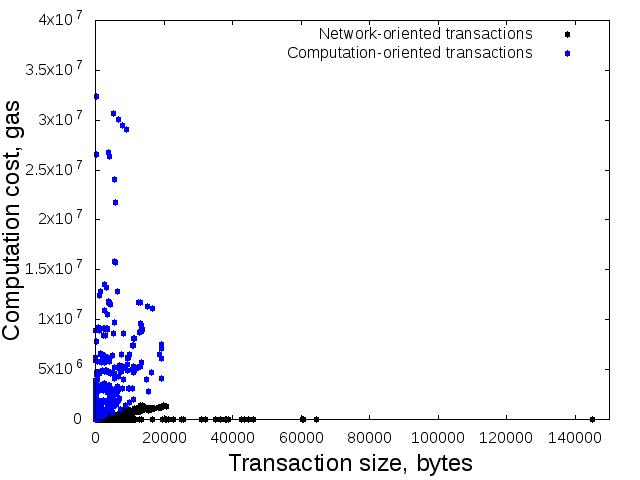
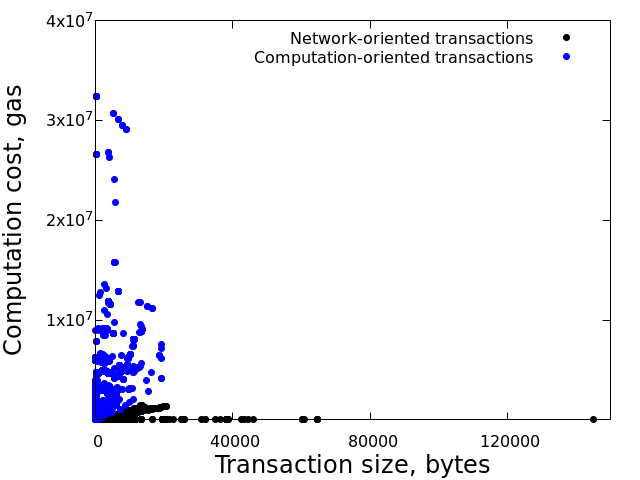
evaluation pictures

diff --git a/fc18/sse.tex b/fc18/sse.tex
@@ -464,8 +464,6 @@ operations.
     \label{fig:eth}
 \end{figure}
 
-\dnote{make letters larger}
-
 The results of processing first $2\cdot10^6$ blocks in Ethereum network are presented in Figure~\ref{fig:eth}. Each point corresponds to a transaction.  One can notice that parts of the distribution in Figure~\ref{fig:eth} extend
 along the coordinate axis --- these are the transactions which can be
 unambiguously distinguished by their type of the resource consumption. Their
